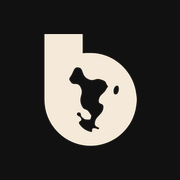
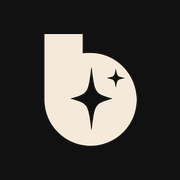
Chat mobile : zone de saisie collée au clavier
- Détection du clavier fiable sur Safari (innerHeight rétrécit avec lui) :
  la marge de la barre d'accueil disparaît quand le clavier est ouvert
- Mention « Awa peut se tromper » masquée pendant la saisie
- Halo autour du champ réservé à la souris
- Logos et icônes BTM AI mis à jour

Changed region(s): [[0.3611, 0.3611, 0.6944, 0.75]]

diff --git a/src/app/admin/page.tsx b/src/app/admin/page.tsx
@@ -97,7 +97,7 @@ function Row({ label, children }: { label: string; children: ReactNode }) {
 }
 
 /* -------------------------------------------------------------------------- */
-/* À surveiller                                                               */
+/* Problèmes à régler (bandeau affiché seulement s il y en a)                 */
 /* -------------------------------------------------------------------------- */
 
 const ALERT_STYLES: Record<AdminAlert["level"], { label: string; icon: string; box: string; badge: string }> = {
@@ -107,18 +107,8 @@ const ALERT_STYLES: Record<AdminAlert["level"], { label: string; icon: string; b
 };
 
 function Alerts({ alerts }: { alerts: AdminAlert[] }) {
-  if (alerts.length === 0) {
-    return (
-      <p className="flex items-center gap-2.5 text-sm">
-        <span aria-hidden="true" className="grid size-6 shrink-0 place-items-center rounded-full bg-accent text-xs text-accent-fg">
-          ✓
-        </span>
-        Tout fonctionne normalement.
-      </p>
-    );
-  }
   return (
-    <ul className="max-h-56 space-y-2 overflow-y-auto">
+    <ul className="grid gap-2 md:grid-cols-2 xl:grid-cols-3">
       {alerts.map((alert) => {
         const style = ALERT_STYLES[alert.level];
         return (
@@ -453,9 +443,18 @@ export default async function AdminPage({ searchParams }: PageProps<"/admin">) {
 
       <main
         id="contenu"
-        className="mx-auto grid w-full max-w-[1600px] min-h-0 flex-1 gap-4 p-4 pb-[max(1rem,env(safe-area-inset-bottom))] lg:grid-cols-[minmax(0,1fr)_22rem]"
+        className={`mx-auto grid w-full max-w-[1600px] min-h-0 flex-1 gap-4 p-4 pb-[max(1rem,env(safe-area-inset-bottom))] lg:grid-cols-[minmax(0,1fr)_22rem] ${
+          alerts.length > 0 ? "lg:grid-rows-[auto_minmax(0,1fr)]" : ""
+        }`}
       >
         <h1 className="sr-only">Tableau de bord BTM AI</h1>
+
+        {/* Rien quand tout va bien ; un bandeau sur toute la largeur seulement en cas de problème. */}
+        {alerts.length > 0 ? (
+          <section aria-label="Problèmes à régler" className="lg:col-span-2">
+            <Alerts alerts={alerts} />
+          </section>
+        ) : null}
 
         {/* Colonne principale : chiffres, activité, qualité, réglages */}
         <div className="flex min-h-0 flex-col gap-4">
@@ -501,12 +500,8 @@ export default async function AdminPage({ searchParams }: PageProps<"/admin">) {
           </div>
         </div>
 
-        {/* Colonne latérale : alertes, comptes, raccourcis */}
+        {/* Colonne latérale : comptes, raccourcis */}
         <div className="flex min-h-0 flex-col gap-4">
-          <Card id="surveiller" title="À surveiller" className="shrink-0">
-            <Alerts alerts={alerts} />
-          </Card>
-
           <Card
             id="comptes"
             title={usersPage ? `Comptes (${fmt(usersPage.total)})` : "Comptes"}

diff --git a/emails/confirmation-inscription.html b/emails/confirmation-inscription.html
@@ -12,7 +12,7 @@
   Durée de validité : « Email OTP Expiration » (Authentication → Providers → Email), 1 heure par défaut.
 
   Mise en page en tableaux et styles en ligne : c'est ce que les messageries affichent de façon fiable.
-  Logo : image /brand/groupe-btm-encre.png servie par le site (Site URL), texte « Groupe BTM » si les images sont bloquées.
+  Logo : image /brand/btm-ai-encre.png servie par le site (Site URL), texte « Groupe BTM » si les images sont bloquées.
 -->
 <!doctype html>
 <html lang="fr">
@@ -36,7 +36,7 @@
           <tr>
             <td style="padding:28px 32px 0;background-color:#ffffff;border-radius:20px 20px 0 0;border-top:4px solid #c8295f;">
               <table role="presentation" cellpadding="0" cellspacing="0" border="0"><tr>
-                <td style="vertical-align:bottom;"><img src="{{ .SiteURL }}/brand/groupe-btm-encre.png" width="120" height="56" alt="Groupe BTM" style="display:block;border:0;outline:none;text-decoration:none;width:120px;height:56px;font-family:Segoe UI,Helvetica,Arial,sans-serif;font-size:18px;font-weight:700;color:#111111;"></td>
+                <td style="vertical-align:bottom;"><img src="{{ .SiteURL }}/brand/btm-ai-encre.png" width="120" height="56" alt="BTM AI" style="display:block;border:0;outline:none;text-decoration:none;width:120px;height:56px;font-family:Segoe UI,Helvetica,Arial,sans-serif;font-size:18px;font-weight:700;color:#111111;"></td>
                 <td style="vertical-align:bottom;padding-left:8px;padding-bottom:2px;"><span style="display:inline-block;background-color:#c8295f;color:#ffffff;border-radius:4px;padding:3px 6px;font-family:Segoe UI,Helvetica,Arial,sans-serif;font-size:12px;font-weight:700;letter-spacing:1px;line-height:1;">AI</span></td>
               </tr></table>
             </td>

diff --git a/emails/mot-de-passe-oublie.html b/emails/mot-de-passe-oublie.html
@@ -34,7 +34,7 @@
           <tr>
             <td style="padding:28px 32px 0;background-color:#ffffff;border-radius:20px 20px 0 0;border-top:4px solid #c8295f;">
               <table role="presentation" cellpadding="0" cellspacing="0" border="0"><tr>
-                <td style="vertical-align:bottom;"><img src="{{ .SiteURL }}/brand/groupe-btm-encre.png" width="120" height="56" alt="Groupe BTM" style="display:block;border:0;outline:none;text-decoration:none;width:120px;height:56px;font-family:Segoe UI,Helvetica,Arial,sans-serif;font-size:18px;font-weight:700;color:#111111;"></td>
+                <td style="vertical-align:bottom;"><img src="{{ .SiteURL }}/brand/btm-ai-encre.png" width="120" height="56" alt="BTM AI" style="display:block;border:0;outline:none;text-decoration:none;width:120px;height:56px;font-family:Segoe UI,Helvetica,Arial,sans-serif;font-size:18px;font-weight:700;color:#111111;"></td>
                 <td style="vertical-align:bottom;padding-left:8px;padding-bottom:2px;"><span style="display:inline-block;background-color:#c8295f;color:#ffffff;border-radius:4px;padding:3px 6px;font-family:Segoe UI,Helvetica,Arial,sans-serif;font-size:12px;font-weight:700;letter-spacing:1px;line-height:1;">AI</span></td>
               </tr></table>
             </td>

diff --git a/src/components/brand/brand.ts b/src/components/brand/brand.ts
@@ -1,8 +1,11 @@
 /**
  * Éléments de marque de BTM AI, séparés des composants fonctionnels.
- * Le logo du Groupe BTM est détouré (fond transparent) dans /public/brand/ :
- *   groupe-btm-encre.png : encre #111111, pour les fonds clairs (e-mails) ;
- *   groupe-btm-creme.png : crème #F5EAD9, pour les fonds sombres.
+ * Logos détourés (fond transparent) dans /public/brand/ :
+ *   btm-ai-encre.png / btm-ai-creme.png : variante BTM AI — dans le « b », les
+ *     îles de Mayotte sont remplacées par des étincelles (signe de l'IA) et le
+ *     « t » est redressé ;
+ *   btm-b.png : le « b » seul de cette variante (icône, écran de lancement) ;
+ *   groupe-btm-encre.png / groupe-btm-creme.png : logo d'origine du Groupe BTM.
  * Sur le site, la forme sert de masque et prend la couleur du texte (thème clair ou sombre).
  */
 export const BRAND = {
@@ -11,7 +14,7 @@ export const BRAND = {
   parent: "GROUPE BTM",
   tagline: "L'intelligence artificielle pour Mayotte",
   logo: {
-    src: "/brand/groupe-btm-encre.png",
+    src: "/brand/btm-ai-encre.png",
     /** Largeur / hauteur du fichier détouré (1039 × 483). */
     ratio: 1039 / 483,
   },

diff --git a/src/components/chat/Composer.tsx b/src/components/chat/Composer.tsx
@@ -66,7 +66,7 @@ export const Composer = forwardRef<ComposerHandle, ComposerProps>(function Compo
         submit();
       }}
       // Couleurs de la personnalité (--persona) si elles sont définies, sinon celles du site.
-      className={`flex items-end gap-2 rounded-[1.75rem] border border-[var(--persona-border,var(--border))] bg-bg py-2 pr-2 shadow-sm transition-[border-color,box-shadow] focus-within:border-[var(--persona,var(--accent))] focus-within:ring-4 focus-within:ring-[color-mix(in_srgb,var(--persona,var(--accent))_15%,transparent)] ${
+      className={`flex items-end gap-2 rounded-[1.75rem] border border-[var(--persona-border,var(--border))] bg-bg py-2 pr-2 shadow-sm transition-[border-color,box-shadow] focus-within:border-[var(--persona,var(--accent))] pointer-fine:focus-within:ring-4 pointer-fine:focus-within:ring-[color-mix(in_srgb,var(--persona,var(--accent))_15%,transparent)] ${
         leading ? "pl-2" : "pl-5"
       }`}
     >

diff --git a/src/components/layout/useKeyboardViewport.ts b/src/components/layout/useKeyboardViewport.ts
@@ -27,7 +27,9 @@ export function useKeyboardViewport(ref: RefObject<HTMLElement | null>) {
         target.style.height = `${visual.height}px`;
         target.style.transform = visual.offsetTop > 0 ? `translateY(${visual.offsetTop}px)` : "";
         // Clavier ouvert : la marge de la barre d'accueil de l'iPhone n'a plus lieu d'être.
-        target.toggleAttribute("data-keyboard", window.innerHeight - visual.height > 120);
+        // Référence : la hauteur de la page sans clavier (sur Safari, window.innerHeight
+        // rétrécit avec le clavier et ne permet pas de le détecter).
+        target.toggleAttribute("data-keyboard", document.documentElement.clientHeight - visual.height > 120);
       });
     }
 

diff --git a/src/components/chat/ChatView.tsx b/src/components/chat/ChatView.tsx
@@ -448,7 +448,7 @@ export function ChatView({ conversationId: initialConversationId, initialMessage
             onStop={() => abortRef.current?.abort()}
             leading={<PersonalitySwitcher />}
           />
-          <p className="text-center text-xs text-fg-muted">
+          <p className="composer-disclaimer text-center text-xs text-fg-muted">
             Awa peut se tromper. Vérifiez les informations importantes.
           </p>
         </div>

diff --git a/src/app/globals.css b/src/app/globals.css
@@ -136,7 +136,13 @@ body {
 
 /* Clavier ouvert (voir useKeyboardViewport) : zone de saisie collée au clavier. */
 [data-keyboard] .composer-dock {
+  padding-top: 0.5rem;
   padding-bottom: 0.5rem;
+}
+
+/* Pendant la saisie, la mention sous le champ s'efface (comme dans les apps de chat). */
+[data-keyboard] .composer-disclaimer {
+  display: none;
 }
 
 /*
